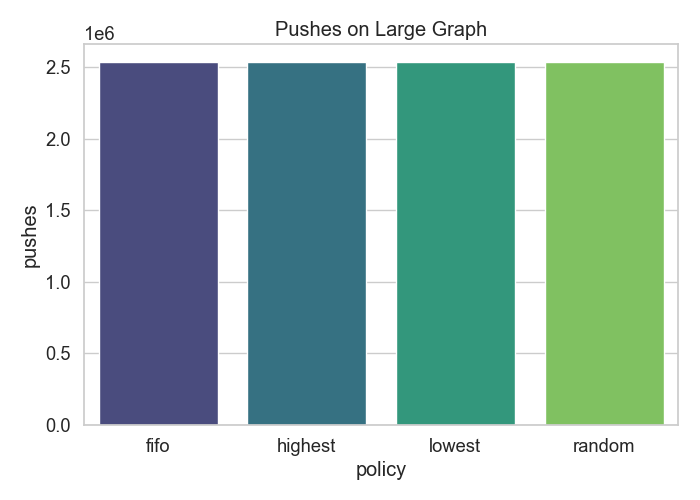
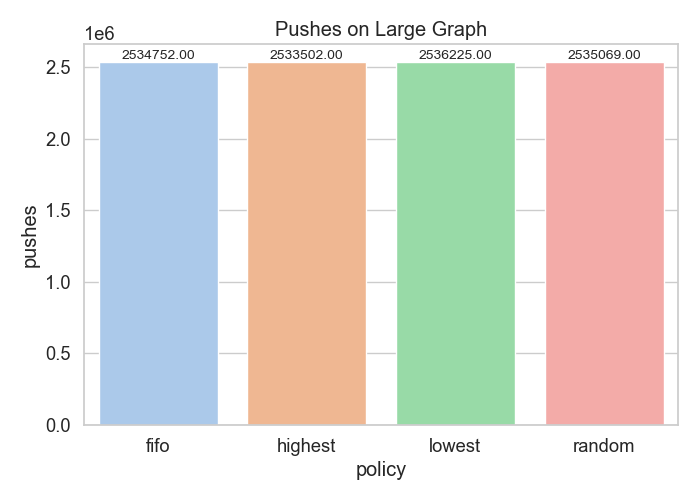
New Radar Graphs

diff --git a/visualize-results.py b/visualize-results.py
@@ -2,6 +2,7 @@ import json
 import seaborn as sns
 import matplotlib.pyplot as plt
 import pandas as pd
+from math import pi
 
 # Load results
 with open("results/raw_results.json") as f:
@@ -9,12 +10,9 @@ with open("results/raw_results.json") as f:
 
 df = pd.DataFrame(data)
 
-# Ensure nice styling
 sns.set_theme(style="whitegrid", font_scale=1.2)
 
-# --------------------------
 # BAR PLOTS PER GRAPH
-# --------------------------
 metrics = ["runtime", "pushes", "relabels"]
 
 for graph in ["small", "medium", "large"]:
@@ -22,15 +20,19 @@ for graph in ["small", "medium", "large"]:
 
     for metric in metrics:
         plt.figure(figsize=(7,5))
-        sns.barplot(data=sub, x="policy", y=metric, palette="viridis")
+        ax = sns.barplot(data=sub, x="policy", y=metric, palette="pastel")
+        for p in ax.patches:
+            height = p.get_height()
+            ax.annotate(f'{height:.2f}', 
+                        (p.get_x() + p.get_width() / 2., height),
+                        ha='center', va='bottom', fontsize=10)
+
         plt.title(f"{metric.capitalize()} on {graph.capitalize()} Graph")
         plt.tight_layout()
         plt.savefig(f"results/{graph}_{metric}.png")
         plt.close()
 
-# --------------------------
 # LINE PLOT ACROSS GRAPHS
-# --------------------------
 for metric in metrics:
     plt.figure(figsize=(7,5))
     sns.lineplot(data=df, x="graph", y=metric, hue="policy", marker="o")
@@ -39,4 +41,48 @@ for metric in metrics:
     plt.savefig(f"results/scaling_{metric}.png")
     plt.close()
 
-print("Plots generated in results/")
+
+# RADAR PLOT FUNCTION
+def radar_plot(subdf, graph_name):
+    categories = ["runtime", "pushes", "relabels"]
+    N = len(categories)
+
+    # Normalize values per metric so all fit 0..1
+    sub = subdf.copy()
+    for c in categories:
+        max_val = sub[c].max()
+        if max_val > 0:
+            sub[c] = sub[c] / max_val
+        else:
+            sub[c] = 0
+
+    # Angles around the circle
+    angles = [n / float(N) * 2 * pi for n in range(N)]
+    angles += angles[:1]
+
+    plt.figure(figsize=(6,6))
+    ax = plt.subplot(111, polar=True)
+
+    for policy in sub["policy"].unique():
+        row = sub[sub["policy"] == policy][categories].values.flatten().tolist()
+        row += row[:1]
+
+        ax.plot(angles, row, linewidth=2, label=policy)
+        ax.fill(angles, row, alpha=0.15)
+
+    ax.set_xticks(angles[:-1])
+    ax.set_xticklabels(categories)
+    plt.title(f"Radar plot for {graph_name.capitalize()} Graph")
+    plt.legend(loc="upper right", bbox_to_anchor=(1.3, 1.1))
+    plt.tight_layout()
+    plt.savefig(f"results/{graph_name}_radar.png")
+    plt.close()
+
+
+# GENERATE RADAR PLOTS
+for graph in ["small", "medium", "large"]:
+    sub = df[df["graph"] == graph]
+    radar_plot(sub, graph)
+
+print("All plots (bar, line, radar) generated in results/")
+
